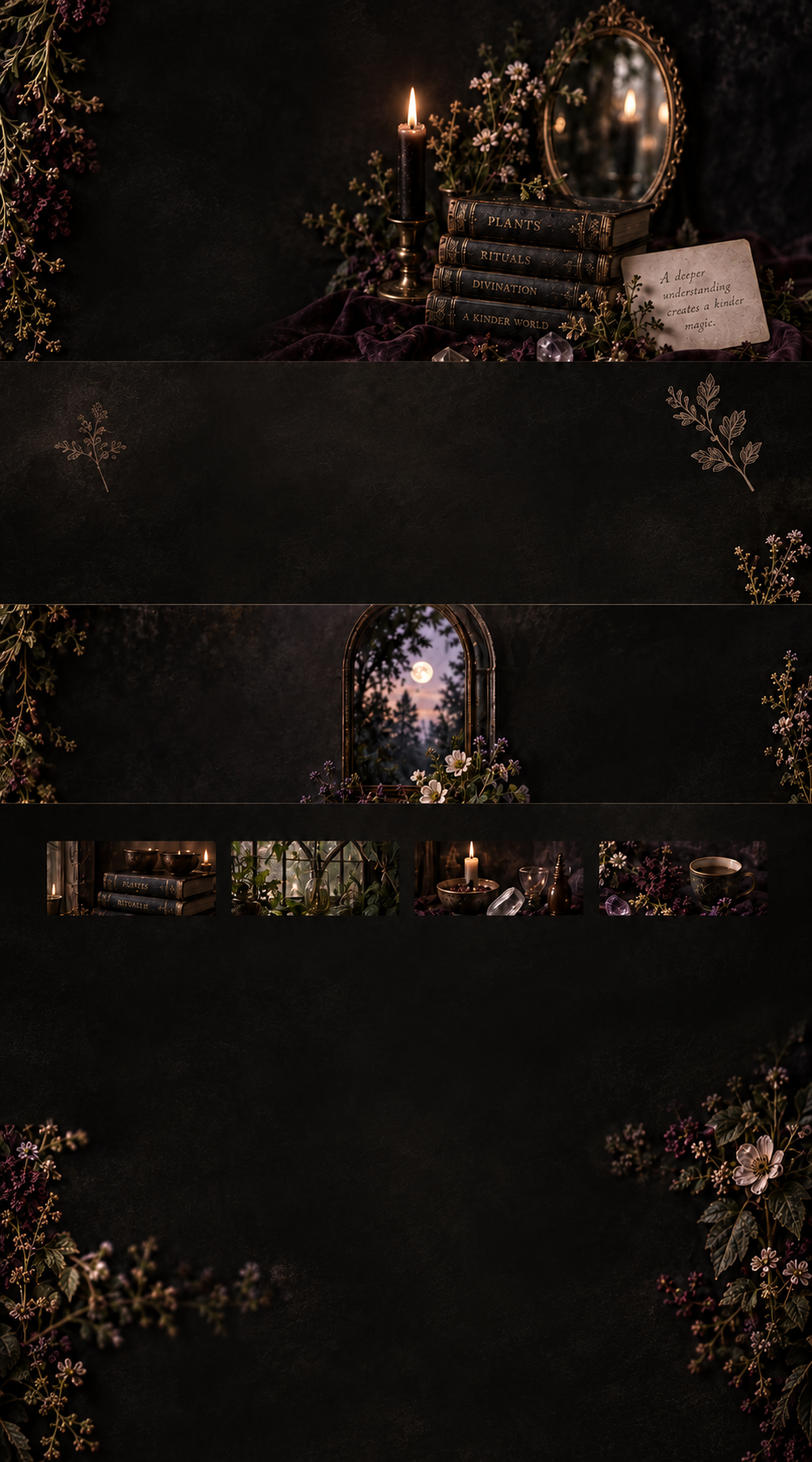
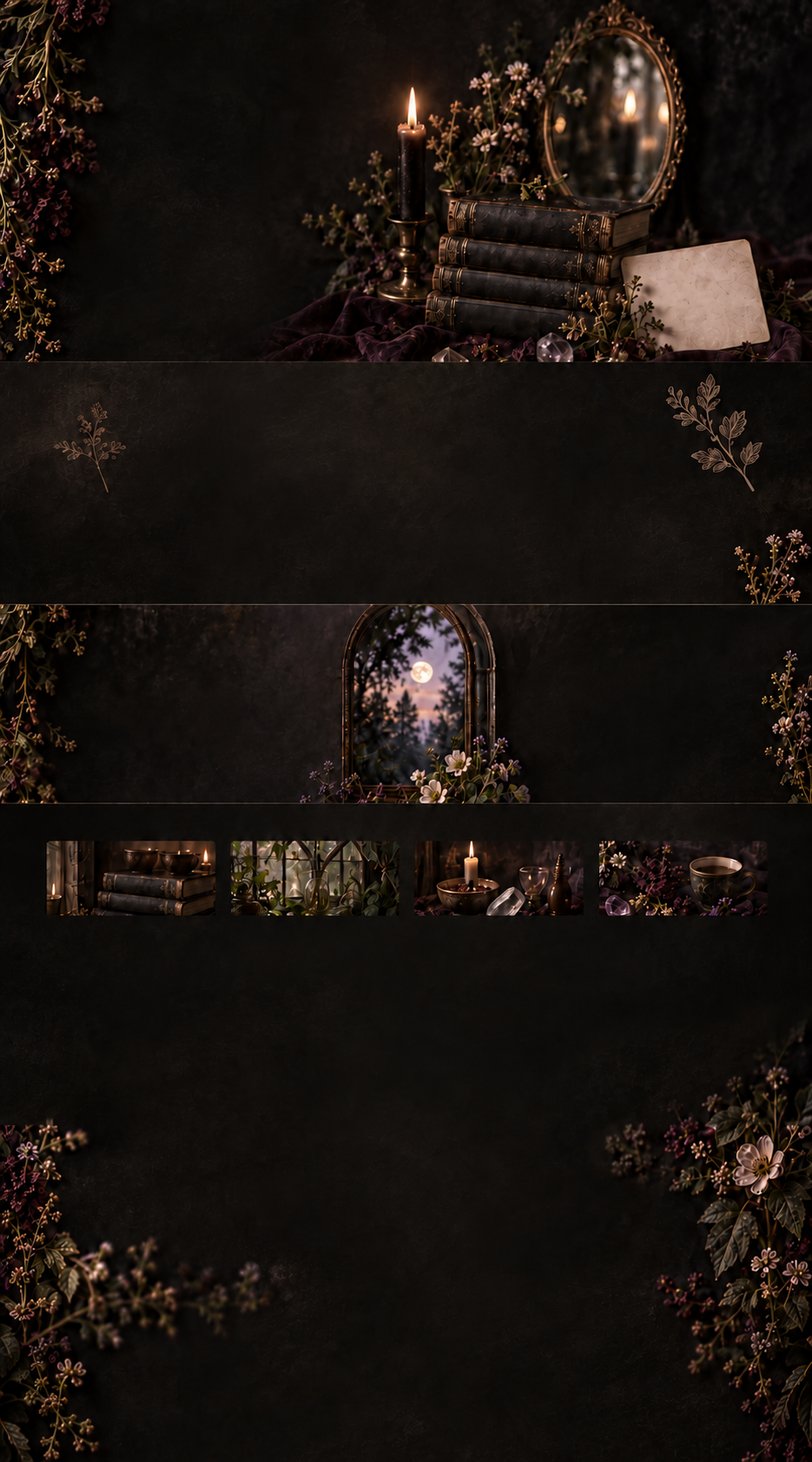
Add files via upload

diff --git a/style.css b/style.css
@@ -1,1 +1,4 @@
-*{box-sizing:border-box}html{scroll-behavior:smooth;scroll-padding-top:20px}body{margin:0;background:#0e0d0b;color:#eee7dc;font-family:Georgia,'Times New Roman',serif}.site{max-width:1440px;margin:auto;container-type:inline-size;background:#100f0d url('assets/backdrop.png') center top/100% 100% no-repeat}a{color:inherit;text-decoration:none}h1,h2,h3,h4,p{margin:0;font-weight:400}h1{font-size:3.5cqw;line-height:1.02}h2{font-size:2.9cqw;line-height:1.06}h3{font-size:2.4cqw;line-height:1.15}p{font-size:1.55cqw;line-height:1.22;letter-spacing:.05em}section{border-bottom:1px solid #77665180;position:relative}header,footer{display:flex;align-items:center;justify-content:space-between;padding:0 6.5%;height:6.1cqw}.brand{font-size:1.2cqw;letter-spacing:.2em}nav{display:flex;gap:2.3cqw;font-size:.95cqw}header .button{margin:0}.button{display:inline-flex;align-items:center;justify-content:center;gap:1.3cqw;min-height:4cqw;padding:.9cqw 2.4cqw;border:1px solid #b1a0a9;box-shadow:inset 0 0 0 3px #22192255;background:linear-gradient(110deg,#493547e6,#62475bd9,#423440e6);font:1.4cqw Georgia,serif;color:#f8edf0;letter-spacing:.03em;cursor:pointer}.button:hover{filter:brightness(1.18)}.button:focus-visible,a:focus-visible,summary:focus-visible{outline:2px solid #e7cbb4;outline-offset:5px}.button.small{font-size:1cqw;min-height:2.6cqw;padding:.5cqw 1.3cqw}.hero{height:42.4cqw}.hero-copy{margin:0 0 0 10.95%;padding-top:.1cqw;width:43%}.hero-copy>p{margin-top:1cqw}.rule{width:4.8cqw;height:1px;background:#a28d77;margin:1.7cqw 0 1.4cqw}.eyebrow{font-family:Arial,sans-serif;letter-spacing:.27em;font-size:.9cqw}.hero h2{margin:.6cqw 0 1.2cqw}.hero h2 span,.month h2 span{color:#dfd2ce}.hero-copy .rate{font-size:1.1cqw;margin-top:1cqw;letter-spacing:.13em}.values{position:absolute;right:3.6%;top:14cqw;color:#c6a6bf;font-family:Arial,sans-serif;letter-spacing:.27em;font-size:.8cqw;line-height:2.6}.story{height:14.2cqw;display:grid;grid-template-columns:43% 49%;gap:7%;align-items:center;padding:0 13.7%}.story h2{font-size:3.3cqw;white-space:nowrap}.story h3{margin-top:.7cqw;white-space:nowrap}.message{width:31.8cqw;height:11cqw;padding:1.1cqw 2.4cqw 1.2cqw 6.5cqw;position:relative;border-radius:1cqw;background:#e8ddcd;color:#28231f;box-shadow:0 3px 14px #0008}.message .eyebrow{font-size:.65cqw;letter-spacing:.17em;margin-bottom:.5cqw}.bubble{font-family:Arial,sans-serif;font-size:1.35cqw;line-height:1.25;background:#f1e8dda8;padding:1cqw;border-radius:1.4cqw;white-space:nowrap}.heart{position:absolute;bottom:-.4cqw;left:6.4cqw;background:#e9decf;border-radius:50%;padding:.3cqw .6cqw;color:#9d3334;font-size:1.5cqw}.why{height:15.7cqw;display:grid;grid-template-columns:33% 39% 20%;gap:4%;padding:2cqw 6.5%}.why p{margin-top:.8cqw}.leaf-list{list-style:none;padding:0;margin:0;font-family:Arial,sans-serif}.leaf-list li{position:relative;padding-left:3cqw;margin:.8cqw 0;font-size:1.35cqw;letter-spacing:.05em}.leaf-list li:before{content:'♧';position:absolute;left:0;color:#c8b097;font:1.7cqw Georgia}.why .leaf-list{border-left:1px solid #776651;padding-left:4.5cqw;margin:1cqw 0}.aside{color:#cbb198;line-height:1.3}.month{height:24.4cqw;display:flex;justify-content:space-between;padding:2.6cqw 6.5% 1.5cqw}.month-copy{width:60%}.month .eyebrow{font-size:1.4cqw;letter-spacing:.23em}.month h2{font-size:3.4cqw;margin:.65cqw 0 1cqw}.month p{font-size:1.4cqw}.month .button{margin-top:1.2cqw;min-height:3.6cqw}.benefits{width:32%;display:grid;gap:1cqw;margin-top:-1cqw}.benefits>div{display:flex;gap:1.6cqw;align-items:center}.icon{border:1px solid #bcabaf;border-radius:50%;width:4.3cqw;height:4.3cqw;display:grid;place-items:center;flex-shrink:0;font-size:2.8cqw;font-weight:400;background:#28202499}.benefits h4{font-size:1.4cqw;margin-bottom:.5cqw}.benefits p{font-size:1.06cqw;white-space:nowrap;letter-spacing:.03em}.inside{height:23.5cqw;padding:1.3cqw 5.7%;border-bottom:0}.inside h2,.testimonials h2{font-size:2.3cqw;margin-bottom:1cqw}.cards{display:grid;grid-template-columns:repeat(4,1fr);gap:1.6cqw}.cards article{border:1px solid #675641;border-radius:.5cqw;overflow:hidden;background:#13110fe6}.card-image{height:9cqw;background-image:url('assets/reference.png');background-size:100cqw 180cqw;background-repeat:no-repeat}.c1{background-position:-5.7cqw -103.5cqw}.c2{background-position:-28.4cqw -103.5cqw}.c3{background-position:-51.1cqw -103.5cqw}.c4{background-position:-73.7cqw -103.5cqw}.card-copy{padding:.8cqw 1.5cqw 1.2cqw}.card-copy h3{font-size:1.8cqw;margin-bottom:.5cqw}.card-copy p{font-family:Arial,sans-serif;font-size:1.15cqw;line-height:1.4;color:#d5c9bd;letter-spacing:.035em}.testimonials{height:16.2cqw;padding:1cqw 6.2% 1.7cqw}.inline-rule{display:inline-block;width:4.5cqw;height:1px;vertical-align:middle;background:#776651;margin-left:.6cqw}.quotes{display:grid;grid-template-columns:repeat(3,1fr);gap:1.6cqw}.quotes blockquote{margin:0;padding:1.2cqw 2cqw;border:1px solid #675641;border-radius:.5cqw;background:#181512b8}.quotes p{font-style:italic;letter-spacing:0;font-size:1.65cqw;line-height:1.14}.quotes cite{display:block;margin-top:1cqw;font:normal .85cqw Arial,sans-serif;letter-spacing:.16em}.join{height:21.6cqw;padding:1.2cqw 8.3%;display:grid;align-items:center;grid-template-columns:40% 33% 24%;gap:3%}.join>div:first-child h2{font-size:2.35cqw;white-space:nowrap}.join>div:first-child p{font-size:1.1cqw;white-space:nowrap;margin-top:.8cqw}.pricing{text-align:center;border:1px solid #a78c6b;border-radius:.4cqw;padding:1cqw 1.9cqw;background:#13100ee0;align-self:stretch}.pricing h2{font-size:2.8cqw}.pricing h2 small{font-size:1.6cqw}.pricing .rule{margin:.8cqw auto;width:3.5cqw}.pricing ul{text-align:left}.pricing li{font-size:1.05cqw;margin:.4cqw 0;padding-left:2.2cqw}.pricing li:before{font-size:1.3cqw}.pricing .button{font-size:1.15cqw;white-space:nowrap;padding:.6cqw 1.1cqw;min-height:3.5cqw;width:100%;margin-top:.4cqw}.pricing .rate{font-size:.86cqw;margin-top:.7cqw;white-space:nowrap}.join>.aside{font-size:1.5cqw;padding-left:1cqw}.faq{min-height:12.5cqw;display:flex;justify-content:space-between;padding:1.7cqw 6.5% 2cqw}.faq-main{width:80%}.faq h2{font-size:2.1cqw;margin-bottom:1cqw}.questions{display:grid;grid-template-columns:repeat(3,1fr);gap:3.5cqw}.questions details{border-top:1px solid #756954;border-bottom:1px solid #756954}.questions summary{list-style:none;cursor:pointer;font-size:1.18cqw;padding:1.2cqw 2cqw 1.2cqw 0;position:relative}.questions summary:after{content:'⌄';position:absolute;right:.5cqw}.questions details[open] summary:after{content:'⌃'}.questions p{font-size:1.2cqw;padding-bottom:1cqw}.signature{padding-top:1.4cqw;font-size:1.4cqw;color:#cfb79f}.signature .eyebrow{font-size:.65cqw;margin-top:2cqw}footer{height:7.3cqw}.social{color:#d8bdae;font-size:1.6cqw;letter-spacing:.5cqw}dialog{background:#1b1618;color:#eee7dc;border:1px solid #a68a72;padding:40px;max-width:440px}dialog::backdrop{background:#000b}dialog h2{font-size:30px}dialog p{font-size:16px;margin:18px 0;line-height:1.5}dialog .button{font-size:15px;padding:12px 20px}.close{position:absolute;right:10px;top:5px;background:none;border:0;color:inherit;font-size:28px;cursor:pointer}@media(max-width:650px){.site{background-size:auto 1400px;background-position:54% top}header{height:76px;padding:0 6%}.brand{font-size:12px}header nav,footer nav,.values{display:none}.button.small{font-size:12px;padding:9px 12px}.hero{height:auto;min-height:580px;background:linear-gradient(90deg,#0b0908e8,#0b090820)}.hero-copy{margin:0;padding:22px 7% 40px;width:100%}h1{font-size:38px}h2{font-size:30px}p{font-size:16px;line-height:1.4}.hero-copy>p br,.month p br{display:none}.hero-copy>p{max-width:340px;margin-top:18px}.rule{width:50px;margin:24px 0 16px}.eyebrow{font-size:10px}.hero h2{font-size:29px;margin:10px 0 20px}.button{min-height:44px;font-size:14px;padding:12px 20px;gap:14px}.hero-copy .rate{font-size:12px;margin-top:12px}.story{height:auto;display:flex;flex-direction:column;padding:26px 7%;gap:28px;background:#12100ee6}.message{width:100%;height:auto;padding:15px 20px;border-radius:10px}.message .eyebrow{font-size:9px}.bubble{font-size:15px;padding:12px;border-radius:14px;white-space:normal}.heart{font-size:18px;left:22px;bottom:-10px;padding:3px 7px}.story h2{font-size:34px}.story h3{font-size:24px;margin-top:12px;white-space:normal}.why{height:auto;display:block;padding:30px 7%;background:#141210ed}.why p{margin-top:12px}.why .leaf-list{margin:24px 0;padding-left:18px}.leaf-list li{font-size:15px;padding-left:30px;margin:12px 0}.leaf-list li:before{font-size:19px}.why .aside br{display:none}.month{height:auto;display:block;padding:30px 7%;background:#171210c9}.month-copy{width:100%}.month .eyebrow{font-size:13px}.month h2{font-size:30px;margin:12px 0}.month p{font-size:16px}.month .button{margin-top:20px;min-height:44px}.benefits{width:100%;margin-top:30px;gap:18px}.benefits>div{gap:16px}.icon{width:46px;height:46px;font-size:28px}.benefits h4{font-size:18px;margin-bottom:5px}.benefits p{font-size:13px;white-space:normal}.inside,.testimonials{height:auto;padding:26px 7%;background:#110f0ef0}.inside h2,.testimonials h2{font-size:27px;margin-bottom:18px}.cards{grid-template-columns:repeat(2,1fr);gap:14px}.cards article{border-radius:5px}.card-image{height:20cqw;background-size:223cqw 402cqw}.c1{background-position:-12.7cqw -231cqw}.c2{background-position:-63.3cqw -231cqw}.c3{background-position:-114cqw -231cqw}.c4{background-position:-164.4cqw -231cqw}.card-copy{padding:12px}.card-copy h3{font-size:19px;margin-bottom:8px}.card-copy p{font-size:13px}.quotes{grid-template-columns:1fr;gap:14px}.quotes blockquote{padding:20px;border-radius:5px}.quotes p{font-size:19px}.quotes cite{font-size:10px;margin-top:13px}.join{height:auto;display:flex;flex-direction:column;gap:24px;padding:35px 7%;background:#16110ddd}.join>div:first-child h2{font-size:27px;white-space:normal}.join>div:first-child p{font-size:14px;white-space:normal;margin-top:12px}.pricing{padding:22px;border-radius:5px;width:100%}.pricing h2{font-size:36px}.pricing h2 small{font-size:18px}.pricing .rule{width:40px;margin:14px auto}.pricing li{font-size:14px;padding-left:25px;margin:12px 0}.pricing li:before{font-size:18px}.pricing .button{font-size:14px;min-height:46px;margin-top:8px}.pricing .rate{font-size:11px;margin-top:12px}.join>.aside{font-size:18px}.faq{padding:30px 7%;display:block;background:#100e0df2}.faq-main{width:100%}.faq h2{font-size:26px;margin-bottom:20px}.questions{grid-template-columns:1fr;gap:16px}.questions summary{font-size:15px;padding:15px 22px 15px 0}.questions p{font-size:14px;padding-bottom:15px}.signature{font-size:18px;margin-top:25px}.signature .eyebrow{font-size:9px;margin-top:14px}footer{height:85px;padding:0 7%;background:#100e0d}.social{font-size:20px;letter-spacing:4px}.inline-rule{width:30px}}
+*{box-sizing:border-box}html{scroll-behavior:smooth;scroll-padding-top:24px}body{margin:0;background:#0e0d0b;color:#eee7dc;font-family:Georgia,'Times New Roman',serif}.site{max-width:1440px;margin:auto;container-type:inline-size;background:radial-gradient(ellipse at 20% 40%,#28211b55,transparent 65%),#100f0d}a{color:inherit;text-decoration:none}h1,h2,h3,p{margin:0;font-weight:400}h1{font-size:clamp(38px,3.5cqw,52px);line-height:1.06}h2{font-size:clamp(29px,2.9cqw,42px);line-height:1.12}h3{font-size:23px;line-height:1.2}p{font-size:17px;line-height:1.55;color:#ddd2c7}section{border-bottom:1px solid #77665180;position:relative;padding:48px 6.5%}header,footer{display:flex;align-items:center;justify-content:space-between;gap:24px;padding:26px 6.5%}.brand{font-size:15px;letter-spacing:.2em}.button{display:inline-flex;align-items:center;justify-content:center;gap:16px;min-height:48px;padding:13px 24px;border:1px solid #b1a0a9;box-shadow:inset 0 0 0 3px #22192255;background:linear-gradient(110deg,#493547ee,#62475bee,#423440ee);font:16px Georgia,serif;color:#f8edf0;letter-spacing:.02em;text-align:center;cursor:pointer}.button:hover{filter:brightness(1.18)}.button:focus-visible,a:focus-visible,summary:focus-visible{outline:2px solid #e7cbb4;outline-offset:5px}.button.small{font-size:14px;min-height:40px;padding:9px 18px}.hero{padding:0 0 48px;isolation:isolate}.hero:before{content:'';position:absolute;z-index:-1;inset:0;background:linear-gradient(180deg,transparent 65%,#100f0d 100%),url('assets/backdrop.png') center top/100% auto no-repeat;max-height:48cqw}.hero-copy{margin-left:10.95%;width:44%;max-width:590px;padding-top:12px}.hero-copy>p{margin-top:18px;max-width:550px}.hero h2{font-size:clamp(27px,2.8cqw,40px);margin:10px 0}.hero h2 span,.month h2 span{color:#dfd2ce}.hero-copy .hero-price{font-size:24px;margin:18px 0 12px;color:#eee7dc}.hero .enrollment-note{font-size:14px;line-height:1.5;margin-top:16px;color:#cdbfb0}.rule{width:54px;height:1px;background:#a28d77;margin:24px 0 18px}.eyebrow{font-family:Arial,sans-serif;letter-spacing:.2em;font-size:12px;line-height:1.5;text-transform:uppercase}.story{display:grid;grid-template-columns:1fr 1.1fr;gap:7%;align-items:center;padding-left:10.95%;padding-right:10.95%;background:linear-gradient(110deg,#261f1860,transparent)}.story h2{font-size:clamp(28px,3.1cqw,44px)}.story>div>p{margin-top:16px;font-size:21px}.message{padding:20px 25px;position:relative;border-radius:10px;background:#e8ddcd;color:#28231f;box-shadow:0 3px 14px #0008}.message .eyebrow{font-size:10px;letter-spacing:.17em;margin-bottom:12px}.message blockquote{font:17px/1.45 Arial,sans-serif;background:#f1e8dda8;padding:14px;margin:0;border-radius:12px}.heart{position:absolute;bottom:-13px;left:26px;background:#e9decf;border-radius:50%;padding:4px 8px;color:#9d3334;font-size:19px}.why{display:grid;grid-template-columns:1fr 1.1fr;gap:30px 7%}.why h2{margin-bottom:18px}.leaf-list{list-style:none;padding:0;margin:0;font-family:Arial,sans-serif}.leaf-list li{position:relative;padding-left:28px;margin:12px 0;font-size:16px;line-height:1.5}.leaf-list li:before{content:'❧';position:absolute;left:0;color:#c8b097;font:22px Georgia}.why>.leaf-list{border-left:1px solid #776651;padding-left:32px}.why-outcome{grid-column:1/-1;max-width:950px}.why-outcome p{margin-top:16px}.aside{color:#cbb198}.why-outcome .aside{font-size:23px}.month{display:grid;grid-template-columns:1.05fr 1fr;gap:10%;background:linear-gradient(90deg,#100e0ef5 0%,#100e0ee0 35%,#100e0e80 50%,#100e0ee8 65%),url('assets/backdrop.png') center 46%/100% auto no-repeat}.month h2{margin:12px 0 22px}.month .button{margin-top:24px}.benefits{display:grid;gap:24px}.benefits>div{display:flex;gap:16px;align-items:flex-start}.feature-mark{color:#c8b097;font-size:30px;line-height:1}.benefits h3{margin-bottom:6px}.benefits p{font-size:16px}.inside h2,.testimonials h2{margin-bottom:24px}.cards{display:grid;grid-template-columns:repeat(4,minmax(0,1fr));gap:20px}.cards article{border:1px solid #675641;border-radius:5px;overflow:hidden;background:#15120f}.card-image{height:9.2cqw;background-image:url('assets/backdrop.png');background-size:100cqw 180cqw;background-repeat:no-repeat}.c1{background-position:-5.7cqw -103.5cqw}.c2{background-position:-28.4cqw -103.5cqw}.c3{background-position:-51.1cqw -103.5cqw}.c4{background-position:-73.7cqw -103.5cqw}.card-copy{padding:18px}.card-copy h3{font-size:22px;margin-bottom:12px}.card-copy p{font-family:Arial,sans-serif;font-size:15px;line-height:1.6;color:#d5c9bd}.inline-rule{display:inline-block;width:50px;height:1px;vertical-align:middle;background:#776651;margin-left:10px}.quotes{display:grid;grid-template-columns:repeat(3,minmax(0,1fr));gap:20px}.quotes blockquote{margin:0;padding:25px;border:1px solid #675641;border-radius:5px;background:#181512b8;display:flex;flex-direction:column;justify-content:space-between}.quotes p{font-style:italic;font-size:21px;line-height:1.4}.quotes cite{display:block;margin-top:20px;font:normal 12px Arial,sans-serif;letter-spacing:.12em;text-transform:uppercase;color:#c9b9ab}.for-you{display:grid;grid-template-columns:1fr 1.1fr;gap:18px 7%;background:linear-gradient(110deg,#261f1860,transparent)}.for-you>.eyebrow{grid-column:1/-1}.for-you p+p{margin-top:16px}.for-you .aside{font-size:22px}.join{padding:55px 8.3%;display:grid;align-items:center;grid-template-columns:1fr 1.1fr;gap:7%;background:linear-gradient(90deg,#100e0ecb,#100e0e80,#100e0edb),url('assets/backdrop.png') center bottom/100% auto no-repeat}.join>div:first-child p{margin-top:22px;font-size:19px}.pricing{border:1px solid #a78c6b;border-radius:5px;padding:30px;background:#13100ef2}.pricing>.eyebrow,.pricing>h2{text-align:center}.pricing h2{font-size:42px;margin-top:10px}.pricing h2 small{font-size:22px}.pricing .rule{margin:20px auto}.pricing h3{font-size:19px;margin-bottom:14px}.pricing li{font-size:15px;margin:10px 0}.pricing .button{width:100%;margin-top:20px}.pricing .enrollment-note{font-size:14px;margin-top:20px;color:#cdbfb0}.faq{padding-left:10.95%;padding-right:10.95%}.faq h2{margin-bottom:24px}.questions details{border-top:1px solid #756954}.questions details:last-child{border-bottom:1px solid #756954}.questions summary{list-style:none;cursor:pointer;font-size:20px;line-height:1.4;padding:21px 36px 21px 0;position:relative}.questions summary::-webkit-details-marker{display:none}.questions summary:after{content:'+';position:absolute;right:8px;color:#c8b097}.questions details[open] summary:after{content:'−'}.questions p{font-size:17px;padding-bottom:22px;max-width:900px}footer{min-height:100px}footer>span{font-size:15px;color:#ccbfb2}
+@media(min-width:651px) and (max-width:1000px){.hero-copy{margin-left:7%;width:55%}.hero:before{opacity:.65}.cards{grid-template-columns:repeat(2,minmax(0,1fr))}.card-image{height:18cqw;background-size:200cqw 360cqw}.c1{background-position:-11.4cqw -207cqw}.c2{background-position:-56.8cqw -207cqw}.c3{background-position:-102.2cqw -207cqw}.c4{background-position:-147.4cqw -207cqw}.quotes{gap:14px}.quotes blockquote{padding:20px}.quotes p{font-size:18px}.join{padding:40px 6.5%;gap:30px}.pricing{padding:24px}.story{padding-left:7%;padding-right:7%;gap:30px}}
+@media(max-width:650px){html{scroll-padding-top:12px}section{padding:34px 7%}header{padding:22px 7%;gap:12px}.brand{font-size:12px;letter-spacing:.16em}.button.small{font-size:12px;padding:9px 12px}.hero{padding-bottom:34px}.hero:before{max-height:440px;background-size:auto,auto 1600px;background-position:center top,50% top;opacity:.5}.hero-copy{margin:0;padding:24px 7% 0;width:100%;max-width:none}h1{font-size:37px}.hero h2{font-size:29px}.hero-copy>p{font-size:17px}.hero .button{padding:13px 16px;font-size:15px}.hero .enrollment-note{font-size:13px}.story,.why,.month,.for-you,.join{grid-template-columns:1fr;gap:30px}.story h2{font-size:32px}.story>div>p{font-size:19px}.message{padding:18px}.message blockquote{font-size:16px}.why>.leaf-list{padding-left:20px}.why-outcome{grid-column:auto}.why-outcome h3{font-size:24px}.why-outcome .aside{font-size:22px}.month{background:#161210}.month h2{font-size:31px}.benefits{gap:22px}.cards{grid-template-columns:1fr;gap:22px}.card-image{height:36cqw;background-size:410cqw 738cqw}.c1{background-position:-23.4cqw -424.4cqw}.c2{background-position:-116.4cqw -424.4cqw}.c3{background-position:-209.5cqw -424.4cqw}.c4{background-position:-302.2cqw -424.4cqw}.card-copy{padding:22px}.card-copy h3{font-size:25px}.card-copy p{font-size:16px}.quotes{grid-template-columns:1fr;gap:16px}.quotes p{font-size:21px}.for-you h2 br{display:none}.join{padding:36px 7%;background:#17120f}.pricing{padding:24px 20px}.pricing .button{font-size:15px;padding:13px 10px}.pricing li{font-size:15px}.faq{padding:34px 7%}.questions summary{font-size:18px}.questions p{font-size:16px}footer{flex-direction:column;align-items:flex-start;gap:14px;padding:28px 7%}footer>span{font-size:14px}}
+@media(prefers-reduced-motion:reduce){html{scroll-behavior:auto}}

diff --git a/index.html b/index.html
@@ -1,41 +1,20 @@
 <!doctype html>
-<html lang="en"><head><meta charset="UTF-8"><meta name="viewport" content="width=device-width,initial-scale=1"><title>Nightshade Black | The Black Garden Society</title><meta name="description" content="A learning community for a kinder, deeper, more intuitive practice."><link rel="stylesheet" href="style.css"></head><body><main class="site">
-<section class="hero" id="home"><header><a class="brand" href="#home">NIGHTSHADE BLACK</a><nav aria-label="Main navigation"><a href="#garden">The Black Garden Society</a><a href="#about">About</a><a href="#month">Journal</a><a href="#inside">Shop</a></nav><a class="button small" href="#join">Join the Garden</a></header><div class="hero-copy"><h1>You can follow the spell.<br>
-But do you know <em>why</em><br>
-it works?</h1><p>The Black Garden Society is a learning community<br>
-for women who want to understand their craft<br>
-deeply enough to make it their own.</p><div class="rule"></div><div class="eyebrow">OCTOBER IN THE GARDEN</div><h2>Divination Beyond the Veil<br>
-<span>+ Mirror Magic</span></h2><a href="#join" class="button">Join The Black Garden Society <span>⟶</span></a><p class="rate">$25/month founding rate</p></div><div class="values">CURIOSITY<br>
-PRACTICE<br>
-BELONGING<br>
-A KINDER WORLD</div></section>
-<section class="story" id="garden"><div class="message"><div class="eyebrow">A REAL MESSAGE</div><div class="bubble">Do you have an online coven<br>
-community for all of us to talk<br>
-about all things witchy?</div><span class="heart">♥</span></div><div><h2>She asked for this<br>
-<em>before it existed.</em></h2><h3>So Nightshade built the room.</h3></div></section>
-<section class="why" id="about"><div><h2>Why this exists</h2><p>Spells are more than steps.<br>
-When you understand the <em>why,</em><br>
-you can adapt, create, and trust<br>
-your own magic.</p></div><ul class="leaf-list"><li>Why this herb?</li><li>Why this timing?</li><li>What can I change?</li><li>How do I stop second-guessing?</li></ul><p class="aside"><em>A deeper<br>
-understanding<br>
-leads to a more<br>
-confident, intuitive<br>
-and personal practice.</em></p></section>
-<section class="month" id="month"><div class="month-copy"><div class="eyebrow">October in the Garden</div><h2>Divination Beyond the Veil<br>
-<span>+ Mirror Magic</span></h2><p>Explore the liminal space. Work with mirrors, symbols,<br>
-and your intuition to receive clearer guidance and<br>
-deeper insight.</p><a class="button" href="#inside">This month in the Garden <span>⟶</span></a></div><div class="benefits"><div><b class="icon">♧</b><div><h4>Weekly lessons</h4><p>In-depth teachings, not surface-level tips.</p></div></div><div><b class="icon">♧</b><div><h4>Guided practice</h4><p>Real ways to work with the magic.</p></div></div><div><b class="icon moon">☾</b><div><h4>Monthly ritual</h4><p>A collective ritual to anchor what you learn.</p></div></div><div><b class="icon">♧</b><div><h4>Community</h4><p>Thoughtful discussion with like-minded women.</p></div></div></div></section>
-<section class="inside" id="inside"><h2>What’s inside the Garden</h2><div class="cards"><article><div class="card-image c1"></div><div class="card-copy"><h3>Monthly Workings</h3><p>A new theme each month with in-depth lessons, resources, and a collective ritual.</p></div></article><article><div class="card-image c2"></div><div class="card-copy"><h3>The Greenhouse</h3><p>A growing library of botanical wisdom, correspondences, and craft resources.</p></div></article><article><div class="card-image c3"></div><div class="card-copy"><h3>Ritual + Practice</h3><p>Guided meditations, rituals, and practical exercises to bring knowledge into real life.</p></div></article><article><div class="card-image c4"></div><div class="card-copy"><h3>Community</h3><p>A supportive, like-minded space to ask questions, share insights, and grow together.</p></div></article></div></section>
-<section class="testimonials"><h2>What our members say <span class="inline-rule"></span></h2><div class="quotes"><blockquote><p>“This is exactly what I’ve been<br>
-looking for. Can’t wait until<br>
-the next one.”</p><cite>— JEN S.</cite></blockquote><blockquote><p>“I genuinely loved your voice<br>
-in the guided meditations.<br>
-So grounding and wise.”</p><cite>— MARIA L.</cite></blockquote><blockquote><p>“It feels like coming home.<br>
-Thoughtful, deep, and<br>
-so beautifully held.”</p><cite>— TAYLOR K.</cite></blockquote></div></section>
-<section class="join" id="join"><div><h2>Join The Black Garden Society</h2><p>A learning community for a kinder, deeper, more intuitive practice.</p></div><div class="pricing"><h2>$25<small>/month</small></h2><div class="rule"></div><ul class="leaf-list"><li>Monthly themes + lessons</li><li>Guided practices and rituals</li><li>Access to the growing library</li><li>Supportive community</li></ul><button class="button" id="join-button">Join The Black Garden Society <span>⟶</span></button><p class="rate">$25/month founding rate</p></div><p class="aside"><em>Deeper knowledge.<br>
-A kinder world.”</em></p></section>
-<section class="faq"><div class="faq-main"><h2>Frequently asked questions <span class="inline-rule"></span></h2><div class="questions"><details><summary>What is The Black Garden Society?</summary><p>A learning community for women who want to understand their craft deeply enough to make it their own.</p></details><details><summary>Is this beginner-friendly?</summary><p>Lessons and guided practices help you explore the why behind your craft, wherever you are starting.</p></details><details><summary>Can I cancel at any time?</summary><p>Please check the membership terms when enrollment opens for cancellation details.</p></details></div></div><div class="signature"><em>“A rising tide of<br>
-kinder witches.”</em><div class="eyebrow">NIGHTSHADE BLACK</div></div></section>
-<footer><a class="brand" href="#home">NIGHTSHADE BLACK</a><nav aria-label="Footer navigation"><a href="#garden">The Black Garden Society</a><a href="#about">About</a><a href="#month">Journal</a><a href="#inside">Shop</a></nav><span class="social" aria-label="Instagram, YouTube, Pinterest">◎ ▣ ℗</span></footer>
-</main><dialog id="enrollment"><button class="close" aria-label="Close dialog">×</button><h2>Join the Garden</h2><p>Membership is $25/month at the founding rate.</p><p>Enrollment is not connected in this preview.</p><button class="button close-action">Back to the Garden</button></dialog><script>const dialog=document.querySelector('dialog');document.querySelector('#join-button').onclick=()=>dialog.showModal();document.querySelectorAll('.close,.close-action').forEach(b=>b.onclick=()=>dialog.close());dialog.addEventListener('click',e=>{if(e.target===dialog)dialog.close()});</script></body></html>
+<html lang="en">
+<head><meta charset="UTF-8"><meta name="viewport" content="width=device-width,initial-scale=1"><title>Nightshade Black | The Black Garden Society</title><meta name="description" content="Understand the why behind your craft. Monthly study, practical application, The Greenhouse reference library, ritual, and community with Nightshade Black."><link rel="stylesheet" href="style.css"></head>
+<body><main class="site">
+<section class="hero" id="home">
+<header><a class="brand" href="#home">NIGHTSHADE BLACK</a><a class="button small" href="https://nightshade-community.mn.co/users/onboarding/plans">Join the Garden <span aria-hidden="true">⟶</span></a></header>
+<div class="hero-copy"><h1>You can follow the spell.<br>But do you know <em>why</em><br>it works?</h1>
+<p>The Black Garden Society is a learning community for women who want to understand the why behind their craft, not just follow someone else’s instructions.</p>
+<div class="rule"></div><div class="eyebrow">October in the Garden</div><h2>Divination Beyond the Veil<br><span>+ Mirror Magic</span></h2>
+<p>Weekly lessons, practical application, community, and access to the growing Greenhouse reference library.</p><p class="hero-price">$25/month</p><a class="button" href="https://nightshade-community.mn.co/users/onboarding/plans">Join The Black Garden Society <span aria-hidden="true">⟶</span></a><p class="enrollment-note">October enrollment closes September 30.<br>New member pricing increases to $49/month in January.</p></div></section>
+<section class="story" id="garden"><div class="message"><div class="eyebrow">A REAL MESSAGE</div><blockquote>“Do you have like an online coven community for all us to talk about all things witchy? ... I’m dying for a good witch community.”</blockquote><span class="heart" aria-hidden="true">♥</span></div><div><h2>Someone asked for this<br><em>before it existed.</em></h2><p>Nightshade didn’t have one yet. So she built it.</p></div></section>
+<section class="why" id="about"><div><h2>Why this exists</h2><p>You can collect spells, save correspondence lists, read books, and still find yourself wondering:</p></div><ul class="leaf-list"><li>Why this herb?</li><li>Why this correspondence?</li><li>Why this method?</li><li>What can I change?</li><li>How do I know what makes sense for my own practice?</li></ul><div class="why-outcome"><h3>The Black Garden Society is built for the part that comes next.</h3><p>Understanding the principles underneath the practice, so you can build knowledge, confidence, and a craft that becomes increasingly your own.</p><p class="aside"><em>Deeper understanding builds more confidence in your practice.</em></p></div></section>
+<section class="month" id="month"><div class="month-copy"><div class="eyebrow">October in the Garden</div><h2>Divination Beyond the Veil<br><span>+ Mirror Magic</span></h2><p>October’s monthly working explores Divination Beyond the Veil + Mirror Magic through Nightshade’s structured approach to learning and practice.</p><a class="button" href="https://nightshade-community.mn.co/users/onboarding/plans">Join October’s Study <span aria-hidden="true">⟶</span></a></div><div class="benefits"><div><span class="feature-mark" aria-hidden="true">❧</span><div><h3>Weekly lessons</h3><p>Go deeper into the month’s subject through structured teaching.</p></div></div><div><span class="feature-mark" aria-hidden="true">❧</span><div><h3>Practical application</h3><p>Work with what you’re learning instead of simply consuming information.</p></div></div><div><span class="feature-mark" aria-hidden="true">❧</span><div><h3>Monthly ritual</h3><p>Come together for the month’s virtual ritual.</p></div></div><div><span class="feature-mark" aria-hidden="true">❧</span><div><h3>Community discussion</h3><p>Ask questions, share experiences, and learn alongside other women in the Garden.</p></div></div></div></section>
+<section class="inside" id="inside"><h2>What’s inside the Garden</h2><div class="cards"><article><div class="card-image c1" role="img" aria-label="Monthly Workings botanical still life"></div><div class="card-copy"><h3>Monthly Workings</h3><p>A new magical subject each month, explored through weekly lessons, readings, assignments, and practical application.</p></div></article><article><div class="card-image c2" role="img" aria-label="The Greenhouse botanical still life"></div><div class="card-copy"><h3>The Greenhouse</h3><p>A growing magical reference library with botanicals, correspondences, spell oils, rituals, divination resources, mini-lessons, and more.</p></div></article><article><div class="card-image c3" role="img" aria-label="Ritual + Practice botanical still life"></div><div class="card-copy"><h3>Ritual + Practice</h3><p>Monthly ritual, seasonal observances, exercises, and resources designed to help you put what you’re learning into practice.</p></div></article><article><div class="card-image c4" role="img" aria-label="Community botanical still life"></div><div class="card-copy"><h3>Community</h3><p>A place to ask questions, share experiences, exchange perspectives, and learn alongside other women without pressure to practice exactly the same way.</p></div></article></div></section>
+<section class="testimonials"><h2>Member feedback <span class="inline-rule"></span></h2><div class="quotes"><blockquote><p>“Thank you! Can’t wait until the next one!!”</p><cite>Member feedback</cite></blockquote><blockquote><p>“I genuinely LOVED how soothing your voice was in the guided meditations.”</p><cite>Member feedback</cite></blockquote><blockquote><p>“It was very informative and helpful... everything you wrote me was full of care and deep thought.”</p><cite>Member feedback</cite></blockquote></div></section>
+<section class="for-you"><div class="eyebrow">Who the Garden is for</div><h2>Curious enough to want more<br>than surface-level instruction.</h2><div><p>You may be newer to the craft.</p><p>You may already have a practice and realize there are places where you’ve been following instructions without really understanding the reasoning underneath them.</p><p>Either way, the expectation isn’t that you arrive knowing everything.</p><p class="aside">The expectation is that you want to learn.</p></div></section>
+<section class="join" id="join"><div><h2>Join The Black Garden Society</h2><p>For women who want to go deeper than collecting information and understand the craft they’re actually practicing.</p></div><div class="pricing"><div class="eyebrow">Current membership</div><h2>$25<small>/month</small></h2><div class="rule"></div><h3>Your membership includes:</h3><ul class="leaf-list"><li>Monthly themed study</li><li>Weekly lessons and practical application</li><li>The Greenhouse reference library</li><li>Monthly virtual ritual</li><li>Community discussion and chat</li><li>Future monthly studies while you’re a member</li></ul><p class="enrollment-note">New member pricing increases to $49/month in January.</p><a class="button" href="https://nightshade-community.mn.co/users/onboarding/plans">Join The Black Garden Society <span aria-hidden="true">⟶</span></a></div></section>
+<section class="faq"><h2>Frequently asked questions</h2><div class="questions"><details><summary>Do I need to be experienced to join?</summary><p>No. The Garden is designed for curious beginner and intermediate practitioners who want to understand their craft more deeply.</p></details><details><summary>Is this only an October course?</summary><p>No. Divination Beyond the Veil + Mirror Magic is October’s monthly study. The Black Garden Society is an ongoing membership with new monthly subjects, community, ritual, and the growing Greenhouse reference library.</p></details><details><summary>What is The Greenhouse?</summary><p>The Greenhouse is Nightshade’s growing reference library of magical resources, including botanicals, correspondences, spell oils, rituals, divination material, mini-lessons, and other educational references.</p></details><details><summary>Do I have to practice the same way as everyone else?</summary><p>No. The community is meant for learning, discussion, questions, and exchanging perspectives. You do not have to practice exactly like Nightshade or anyone else inside the Garden.</p></details><details><summary>How much is membership?</summary><p>Membership is currently $25/month. New member pricing increases to $49/month in January.</p></details></div></section>
+<footer><a class="brand" href="#home">NIGHTSHADE BLACK</a><span>The Black Garden Society</span></footer>
+</main></body></html>

diff --git a/README.md b/README.md
@@ -27,7 +27,6 @@ style.css
 README.md
 assets/
   backdrop.png
-  reference.png
 ```
 
 All stylesheet and image links are relative, so the site works under a repository subdirectory and on a custom domain. No Sites credentials, hosting configuration, or local server are needed.
@@ -36,10 +35,10 @@ All stylesheet and image links are relative, so the site works under a repositor
 
 - Edit `index.html` for page text, navigation, and FAQ answers.
 - Edit `style.css` for colors, typography, spacing, and responsive styles.
-- Keep both images in `assets`. The card images use positioned portions of `reference.png`.
-- The membership button currently opens a preview notice. Connect a real enrollment destination before accepting memberships.
-- Journal and Shop currently link to sections of this single-page preview. Social symbols are decorative, not connected profile links.
-- FAQ answers are draft copy; review them before launch.
+- Keep `assets/backdrop.png`. The card images use positioned portions of this cleaned artwork.
+- All four Join buttons link to https://nightshade-community.mn.co/users/onboarding/plans.
+- The header contains the brand and Join the Garden button. The footer contains the brand and community name.
+- Pricing, enrollment timing, FAQ answers, and member feedback follow the supplied revision notes. Update seasonal details when the offer changes.
 
 ## Official GitHub instructions
 
